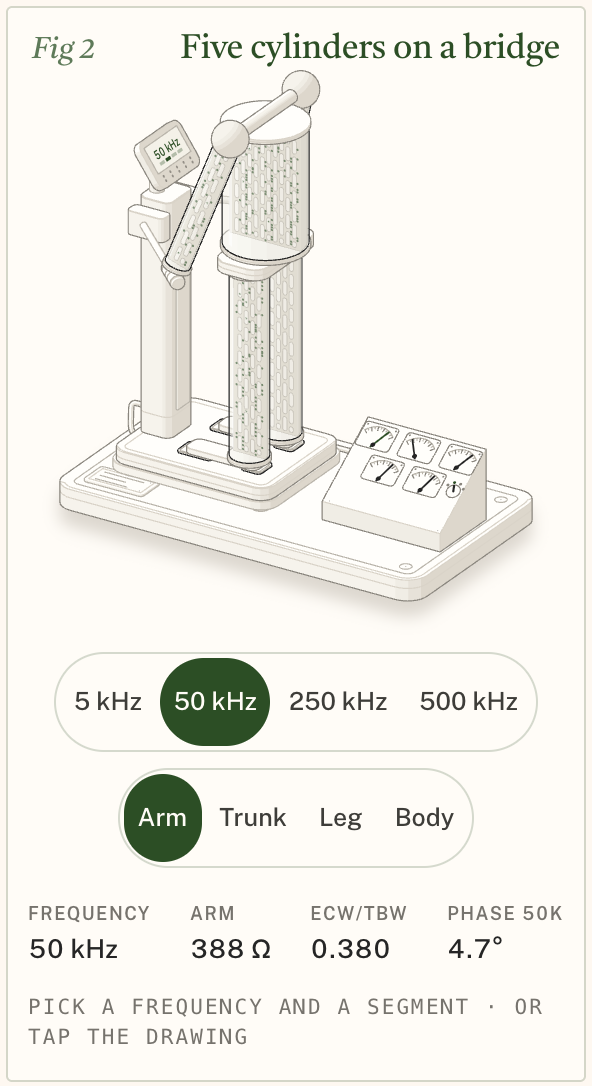
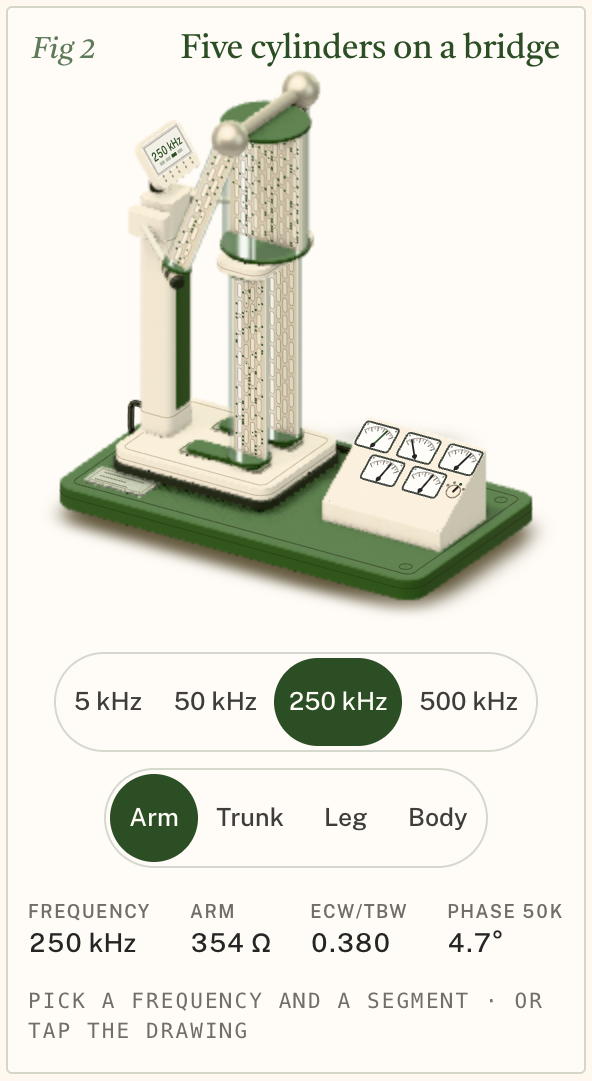
Fig 2 (five cylinders on a bridge) on the shared 3-D layer
Each of the five tubes gets two solids of its own (a core whose flat face
carries the drawn cells and dots, and the glass around it); the head's
screen and each meter sit on paper so their drawn faces show as drawn.
White column, docks and console on a forest bench, nickel electrodes and
shoulder balls, brass studs. The measured segment's core glows gently,
following the same list that lights the needles. Nothing solid moves, so
the layer renders on arrival and while a glow eases. With the layer off
the drawing is unchanged.

diff --git a/figures/02-inbody-580/live.js b/figures/02-inbody-580/live.js
@@ -15,6 +15,84 @@ function mount(fig) {
   const KIND = (name) => (name.startsWith("arm") ? "arm" : name.startsWith("leg") ? "leg" : "trunk");
   const MET = DATA.meter;
   const SPEED = 9; // world units per second through a 9-lane section; narrower sections run faster (same current)
+  // the 3-D layer (shared/gl3): the same solids, rendered under this SVG. Until it arrives every call is a no-op.
+  // Nothing solid moves in this figure (dots, needles and the switch are ink), so the layer is drawn on change only.
+  const gl = gl3Attach(fig, { scene: DATA.gl3, P: DATA.P, W: DATA.W, H: DATA.H, file: DATA.gl3.file, v: DATA.gl3.v, redraw: () => glArrive(), build: glGlass });
+  // The far shoulder stands above the viewBox (the SVG shows it: its overflow is visible), and the layer's canvas
+  // only covers the SVG's box. So while the layer is on, the viewBox reaches up to it (same scale, same place on
+  // the page: the margin takes the extra height back) and the layer's camera follows.
+  const VB_TOP = 36;
+  function glArrive() {
+    if (gl.on && typeof ResizeObserver !== "undefined") {
+      svg.setAttribute("viewBox", `0 ${-VB_TOP} ${DATA.W} ${DATA.H + VB_TOP}`);
+      svg.style.marginTop = `${((-VB_TOP / DATA.W) * 100).toFixed(4)}%`;
+      stage.style.display = "flow-root"; // the stage keeps its own box: the margin doesn't collapse through it
+      gl.view(0, -VB_TOP, DATA.W, DATA.H + VB_TOP);
+    } else {
+      svg.setAttribute("viewBox", `0 0 ${DATA.W} ${DATA.H}`);
+      svg.style.marginTop = "";
+      stage.style.display = "";
+    }
+    glGlow(true);
+  }
+  // The five tubes: the layer's glass preset is a faint film in this studio (an upright tube seen from above mirrors
+  // the floor), so the figure brings its own glass: a hair of tint, edges that thicken toward the silhouette, and
+  // long highlights that keep their place across each tube whatever its lean. It stays out of the shadow and
+  // occlusion passes, as the preset does (the parts are recorded as glass in build.mjs).
+  function glGlass({ THREE, root, material, night }) {
+    const preset = material("glass");
+    const glass = new THREE.ShaderMaterial({
+      uniforms: {
+        uTint: { value: new THREE.Color(night ? 0x9fbf96 : 0xb9c7b6) },
+        uEdge: { value: new THREE.Color(night ? 0xcfe6c6 : 0x8a9a86) },
+        uFilm: { value: night ? 0.07 : 0.06 },
+        uRim: { value: night ? 0.42 : 0.62 },
+      },
+      vertexShader: `
+        varying vec3 vN; varying vec3 vAcross;
+        void main(){
+          vN = normalize(normalMatrix * normal);
+          vec3 ax = normalize(mat3(modelViewMatrix) * vec3(0.0, 0.0, 1.0)); // the tube's axis, as the camera sees it
+          vec3 ac = cross(ax, vec3(0.0, 0.0, 1.0));
+          vAcross = normalize(ac) * (ac.x < 0.0 ? -1.0 : 1.0);
+          gl_Position = projectionMatrix * modelViewMatrix * vec4(position, 1.0);
+        }`,
+      fragmentShader: `
+        uniform vec3 uTint; uniform vec3 uEdge; uniform float uFilm; uniform float uRim;
+        varying vec3 vN; varying vec3 vAcross;
+        void main(){
+          vec3 n = normalize(vN);
+          float t = dot(n, normalize(vAcross));            // across the tube as it is seen: -1 left edge, +1 right edge
+          float rim = smoothstep(0.55, 1.0, abs(t));
+          float s1 = exp(-pow((t + 0.5) / 0.1, 2.0));       // the broad highlight, left of centre
+          float s2 = exp(-pow((t + 0.27) / 0.022, 2.0));    // a thin one beside it
+          float s3 = exp(-pow((t - 0.74) / 0.04, 2.0));     // the far side's return
+          float hi = clamp(s1 * 0.62 + s2 * 0.5 + s3 * 0.34, 0.0, 1.0);
+          float a = uFilm + rim * rim * uRim;
+          vec3 c = mix(uTint, uEdge, rim);
+          float A = a + hi * (1.0 - a);
+          gl_FragColor = vec4((c * a + vec3(2.6) * hi * (1.0 - a)) / max(A, 1e-4), A);
+        }`,
+      transparent: true,
+      depthWrite: false,
+    });
+    root.traverse((o) => {
+      if (o.isMesh && o.material === preset) o.material = glass;
+    });
+    return { dispose: () => glass.dispose() };
+  }
+  // The measured segment glows a little from inside (the SVG lights its needle; the ink stays the truth).
+  const GLOW = Object.fromEntries(DATA.segs.map((sg) => [sg.name, { x: 0, to: 0 }]));
+  function glGlow(now) {
+    let moved = !!now;
+    for (const [name, g] of Object.entries(GLOW)) {
+      if (g.x === g.to && !now) continue;
+      g.x = now || still.matches || Math.abs(g.to - g.x) < 0.02 ? g.to : g.x + (g.to - g.x) * 0.22;
+      gl.set(`body.${name}.core`, { emissive: 0xfff1d6, intensity: 0.8 * g.x });
+      moved = true;
+    }
+    if (moved) gl.render();
+  }
 
   // ---------------------------------------------------------------- dots: one set per segment on the measured (right) path
   const NS = "http://www.w3.org/2000/svg";
@@ -86,6 +164,8 @@ function mount(fig) {
     stage.setAttribute("aria-valuetext", valuetext);
     groups.freq.forEach((b, i) => setPressed(b, i === fi));
     groups.seg.forEach((b) => setPressed(b, b.dataset.value === seg));
+    for (const [name, g] of Object.entries(GLOW)) g.to = lit.includes(name) ? 1 : 0;
+    if (still.matches) glGlow(false);
   }
   const setPressed = (b, on) => {
     b.setAttribute("aria-checked", on ? "true" : "false");
@@ -150,6 +230,7 @@ function mount(fig) {
         if (d.through) d.node.setAttribute("data-in", "");
         else d.node.removeAttribute("data-in");
       }
+    glGlow(false);
   }
 
   function tick(now) {

diff --git a/figures/02-inbody-580/figure.css b/figures/02-inbody-580/figure.css
@@ -26,3 +26,6 @@
 .ib-wall .iso-fill { fill: var(--ib-ecw); }
 .iso.optimal { --ib-glass: #9fbf96; --ib-shine: #f3f7ee; }
 .iso.optimal[data-theme="light"] { --ib-glass: #dfe9e4; --ib-shine: #ffffff; }
+/* With the 3-D layer on (shared/gl3) the meter's frame is drawn as a bezel: a band in the face's own plane, so it
+   foreshortens with the face and stays crisp at any pixel ratio (a rendered bezel this thin breaks up on a phone). */
+.iso-stage[data-gl3="on"] .ib-frame { vector-effect: none; stroke: #454c44; stroke-width: 0.75; stroke-opacity: 1; stroke-linejoin: round; }

diff --git a/figures/02-inbody-580/NOTES.md b/figures/02-inbody-580/NOTES.md
@@ -1,12 +1,12 @@
 # Fig 2 · Five cylinders on a bridge
 
-**Size:** Figure (upper end): 46 recorded solids, 1 cable, 56 painted items, ≈ 120 parts counting electrodes, keys, ticks and seams. SVG only.
+**Size:** Figure (upper end): 46 recorded solids, 1 cable, 56 painted items, ≈ 120 parts counting electrodes, keys, ticks and seams. SVG, with the shared 3-D layer (`shared/gl3`) under it where it can run; `?gl=off` (or `gl="off"` on the embed) is the drawing alone, unchanged.
 
 **Mapping in one sentence:** a glass body of five cylinders (thin arms, a wide short trunk, legs) stands on the InBody 580 holding its grips; the measuring current is a stream of dots that threads round the long cells at 5 kHz and increasingly through them at higher frequencies, and a bridge of five panel meters (laid out like the result sheet) reads each segment's ohms: the arms several times higher than the trunk.
 
 ## Files
 
-`model.mjs` (Cole model per segment, current share through membranes, ECW/TBW), `build.mjs` (geometry, recorder, card, embed), `live.js` (dots, meters, switch, screen, tour, input), `figure.css`, `embed/`, `shots/`.
+`model.mjs` (Cole model per segment, current share through membranes, ECW/TBW), `build.mjs` (geometry, recorder, card, embed, the 3-D layer's scene), `live.js` (dots, meters, switch, screen, tour, input, the layer's glass and glow), `figure.css`, `embed/` (the embed script and the layer's chunk `optimal-gl3.js`), `shots/`.
 
 ## Parts
 
@@ -32,11 +32,26 @@ All in `reference/truth-pack.md` §2, "How Fig 2 uses these numbers". Headline: 
 
 Frequency buttons (5 / 50 / 250 / 500 kHz) and segment buttons (Arm / Trunk / Leg / Body), 44 px. Tap a cylinder to select its segment; tap elsewhere to step the frequency. Keys: ← → frequency, ↑ ↓ segment, Home / End. Idle tour steps through the frequencies, segment by segment. Reduced motion: one still frame at 50 kHz, "Body", dots placed at that frequency's share. The loop stops offscreen.
 
+## 3-D layer (shared/gl3, 2026-11-10)
+
+The same solids, rendered under the SVG; the SVG is the ink on top (cells, dots, ticks, needles, screen, switch). Read `shared/gl3/README.md` first.
+
+- **Colourway (the brand's, not InBody's):** warm white shells (column, docks, deck, head, pelvis, console); a forest bench, forest caps and soles on the glass body, a forest trim strip on the column; graphite base under the deck, graphite grips and neck; rubber feet and cable; satin nickel electrodes (foot pads, and two bands on each grip), shoulder balls and bar, switch knob; aluminium grip rods and label plate; brass terminal studs.
+- **The five tubes** are drawn with the kit directly (`record(A.disc…)` + `put`), so the helpers record nothing. `segment()` notes two solids each: `body.<name>.core`, the back half as a prism whose flat face is the section the SVG draws on (kept `shell`, lit, so the ink reads and the caps shade it), and `body.<name>`, the glass. The glass is the figure's own material (`glGlass` in `live.js`, through the layer's `build` hook): the layer's `glass` preset is a faint film on an upright tube in this studio, so the figure swaps in a small shader (a hair of tint, edges that thicken to the silhouette, long highlights). The drawn shine is `data-gl3-hide`.
+- **Paper under colour:** the head's bezel and screen get a `paper` panel (`head.screen`); each meter face gets a paper card of its own outline (`meter.<name>`), flat on the sloped face. Cards, panel and the grip bands carry `shadow: false`: they are too thin for the shadow map and would only add an occlusion fringe.
+- **Meter bezels are ink.** A rendered bezel this thin (0.7 cm) breaks into dots on a phone-sized canvas, so the drawn frame (`.ib-frame`) is restyled while the layer is on (`figure.css`): a dark band 0.75 cm wide in the face's own plane (`vector-effect: none`), crisp at any pixel ratio. With the layer off it is the same 1 px line as before.
+- **Glow:** the measured segment's core glows a little (`gl.set(core, { emissive, intensity })`, eased; the others reset): right arm, trunk or right leg, or all three for "Body". It follows the same `lit` list that lights the needles. The ink is still the truth.
+- **Drawn on change only.** Nothing solid moves here (dots, needles and the switch are ink), so `live.js` calls `gl.render()` when the layer arrives and while a glow eases, not every frame.
+- **The far shoulder stands above the viewBox** (28 units; the SVG shows it because its overflow is visible) and the layer's canvas only covers the SVG's box. While the layer is on, `live.js` sets the viewBox to `0 -36 600 636`, takes the extra height back with a negative top margin (the stage becomes `flow-root` so its own box stays put) and calls `gl.view(…)`. Layout is identical to the layer-off page (checked: plate, stage and SVG rectangles at 390 and 900 px). If the layer is lost, all three are put back.
+- **Layer off = the old figure:** the built SVG is byte-identical to the build before the layer, apart from five inert `data-gl3-hide` attributes (the shines) and the class `ib-frame` on the five meter frames (no rule touches it with the layer off); the page CSS is the old CSS plus that one `[data-gl3="on"]` rule and `gl3.css`.
+- **Not rendered, left as ink on purpose:** seams, grooves, screws, the bench's inset line (they read on the pale parts and fade on the forest and graphite ones).
+
 ## Verification (2026-10-11)
 
 - `node build.mjs --light --audit` → `audit passed`. One pair is excused after an 8× look: the arm tubes end with their rim on the shoulder balls, leaving a 4 px² sliver at the rim.
 - `lines.mjs` → `line ends: 0`, both themes, normal and reduced motion. The needle tips are marked free, as the skill allows for pointer tips.
 - No console errors; no sideways scroll at 390, 360 or 320.
+- 2026-11-10, with the 3-D layer: `node scripts/verify.mjs 02-inbody-580` → `verify: passed` (line ends 0 on both themes with `?gl=off`; 390 / 360 / 320, reduced motion and desktop in both themes with the layer on, console clean). `node build.mjs --light --audit` → `audit passed`. The embed (`embed/test.html`) ends at `data-gl3="on"`.
 
 ## Embed
 
